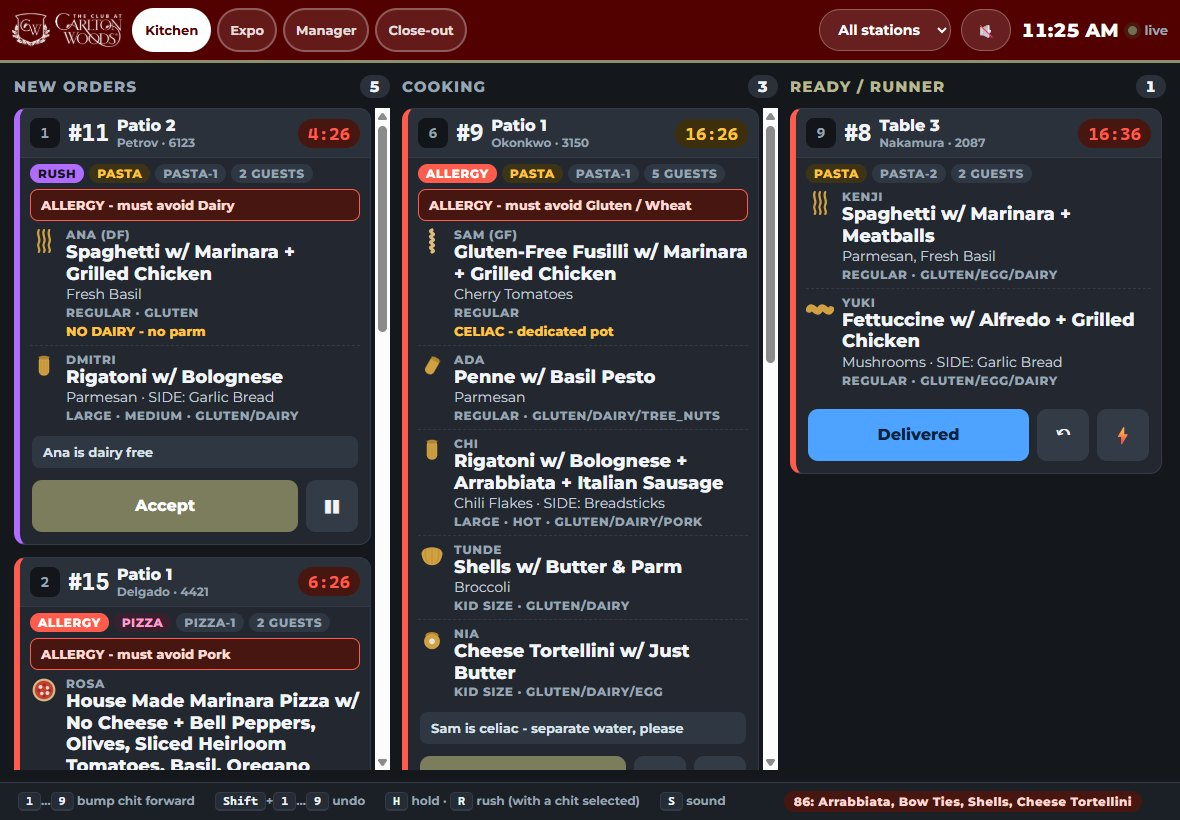
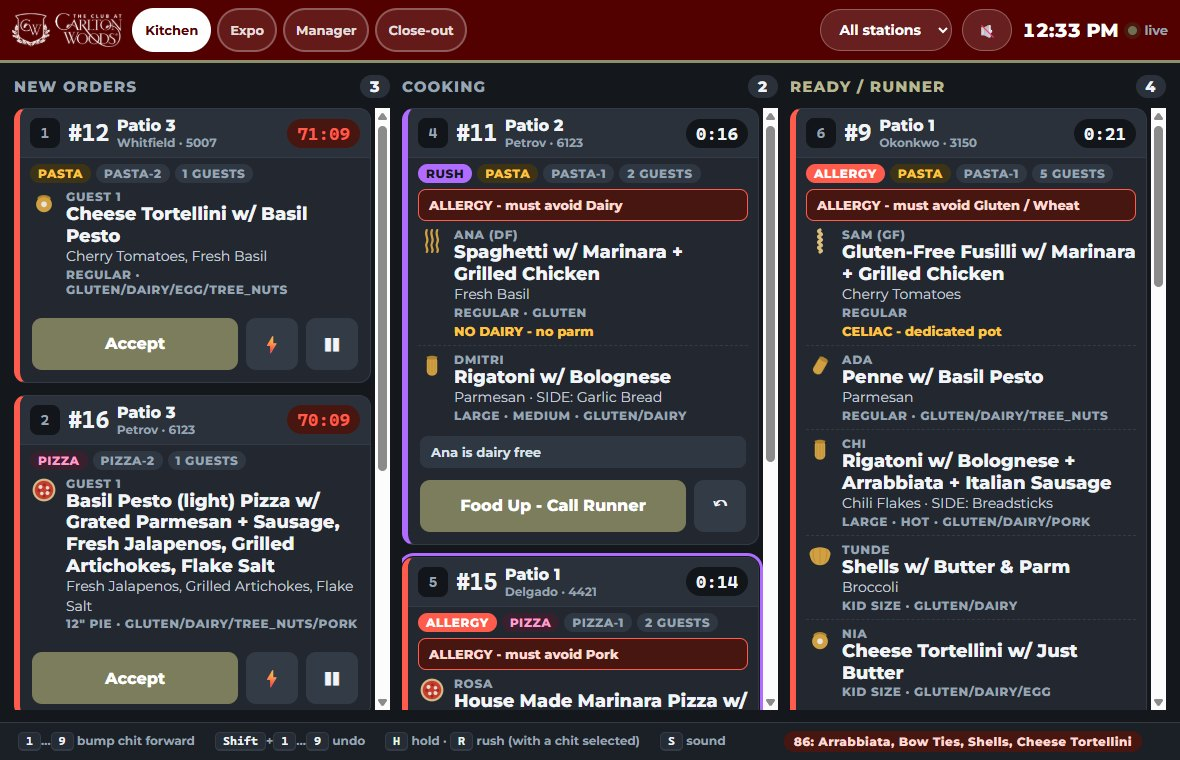
Fix the spacing on the rest of the pages, and let the build catch it
Went through all seven. Three were wrong:

  - Page 2's intro ran underneath the panel row and lost a word behind
    the first panel. The row starts 44pt lower now.
  - Page 3's phone screenshot sat on top of the callout beneath it. The
    callout is full width, so it has to clear both columns; it was only
    clearing the steps on its left.
  - The Counter read "Takeout Counter - Takeout Counter", which is what
    a first-to-last range says when there is only one of something.

The five-step loop on page 2 went with them. It restated the cover strip
almost step for step, and cutting it is what made room to space the rest
of the page properly.

Re-shot the expo board: the old capture was about 60% empty black
because only one ticket was on the pass. There are four now, and the
frame is shorter, so the picture is mostly board rather than mostly
background. Re-shot the rail for the same reason.

The real fix is the last one. Laying out in absolute coordinates means a
paragraph that grows by one line slides silently under whatever is below
it, and neither fault above shows up in a page count or a byte size. The
overlap is not even a margin error - both elements were well inside the
margins, just on top of each other. So the build now reads the finished
file back, checks every text run, panel and image against the margins,
the footer and each other, and fails if they collide. Verified by
reintroducing the page 3 bug: the build catches it and exits 1.

diff --git a/scripts/guide-pdf.js b/scripts/guide-pdf.js
@@ -251,7 +251,9 @@ y = para(
   112, { width: COL - 40 },
 );
 
-const bandY = 160;
+// Clear of the intro above it. At 160 the last line of that paragraph ran
+// underneath this row and lost a word behind the first panel.
+const bandY = 204;
 // Tall enough for the two cooking areas plus the note under them. They ended
 // flush on the border at 236, with the note sitting on the last station box.
 const bandH = 264;
@@ -315,12 +317,19 @@ groupBy(config.tags, 'area', (t) => t.label).forEach((g) => {
   // Tables come from the tent list, covers from the config. Printing them
   // together is the whole point: a manager reading this wants to know what a
   // full room looks like before the first ticket lands.
-  const line = covers
-    ? g.items.length + ' tables, ' + covers + ' covers'
-    : g.items.length + (g.items.length === 1 ? ' point' : ' points');
-  doc.text(line, { x: zoneX + 12, y: zy + 14, size: 10.5, font: 'bold', color: INK });
-  zy = para(g.items[0] + ' - ' + g.items[g.items.length - 1], zy + 27,
-    { x: zoneX + 12, width: colW - 24, size: 8.5, lead: 11 }) + 14;
+  // An area with covers leads with its capacity and names its range beneath.
+  // One with a single point just names it - "Takeout Counter - Takeout
+  // Counter" is what a first-to-last range says when there is only one.
+  const headline = covers ? g.items.length + ' tables, ' + covers + ' covers' : g.items[0];
+  doc.text(headline, { x: zoneX + 12, y: zy + 14, size: 10.5, font: 'bold', color: INK });
+  zy += 14;
+  if (covers) {
+    const range = g.items.length > 1
+      ? g.items[0] + ' - ' + g.items[g.items.length - 1]
+      : g.items[0];
+    zy = para(range, zy + 13, { x: zoneX + 12, width: colW - 24, size: 8.5, lead: 11 });
+  }
+  zy += 18;
 });
 
 const totalCovers = Object.values(config.areaCovers).reduce((a, b) => a + b, 0);
@@ -331,25 +340,10 @@ doc.text(totalCovers + ' covers', { x: zoneX + 12, y: zy + 28, size: 13, font: '
 arrow(M + colW + 5, bandY + 120, passX - 5, bandY + 120, FAINT, 1.2);
 arrow(passX + colW + 5, bandY + 120, zoneX - 5, bandY + 120, FAINT, 1.2);
 
-y = bandY + bandH + 34;
-rule(y);
-eyebrow('And back again', y + 22);
-
-const loop = [
-  ['1', 'Member scans the tent', 'The code carries the table. Nobody types a table number, ever.'],
-  ['2', 'Ticket routes by kind', 'Pasta to the main kitchen, pizza to the patio decks, alternating.'],
-  ['3', 'Kitchen calls it up', 'It leaves the rail and appears on the pass, wherever it was cooked.'],
-  ['4', 'Runner reads the destination', 'Written large on the card: the tent name, not a code to decode.'],
-  ['5', 'Delivered closes the loop', 'The member\'s own phone updates as the runner walks away.'],
-];
-let ly = y + 46;
-loop.forEach((s) => {
-  doc.rect(M, ly - 9, 18, 18, BRAND);
-  monoMid(s[0], M + 9, ly + 4, 9, PAPER);
-  doc.text(s[1], { x: M + 28, y: ly + 4, size: 9.5, font: 'bold', color: INK });
-  doc.text(s[2], { x: M + 210, y: ly + 4, size: 9, color: SOFT });
-  ly += 26;
-});
+// The five-step loop that used to sit here restated the cover strip almost
+// step for step. The page reads better with the air.
+y = bandY + bandH + 36;
+const ly = y;
 
 y = ly + 18;
 rule(y);
@@ -386,7 +380,7 @@ para('They scan the code on the table tent and they are in. The whole order take
 
 const memberSteps = [
   ['Scan the tent', 'Every table has its own code. It carries the table with it, so the kitchen always knows where the food goes.'],
-  ['Language, then member number', 'English and Espanol are the first thing on the first screen, each written in its own language. Member numbers are 1 to 4 digits; leading zeros do not matter.'],
+  ['Language, then member number', 'English and Español are the first thing on the first screen, each written in its own language. Member numbers are 1 to 4 digits; leading zeros do not matter.'],
   ['Pasta or pizza', 'One tap. The next screen greets them by name.'],
   ['How many at the table', 'Up to ' + config.order.maxGuests + '. This is the number that becomes covers at close-out.'],
   ['Build each plate', 'One tile grid per person. Anything 86\'d is greyed out and marked sold out - visible rather than hidden. Allergens show on each ingredient as they build.'],
@@ -406,14 +400,18 @@ memberSteps.forEach((s, i) => {
 
 const cardY = 148;
 const cardX = RIGHT - 152;
+let rightColumnBottom = cardY + 198;
 
 // The build grid, actual size on a phone, in the column beside the steps.
 if (SHOTS.build) {
-  const ph = doc.fit(SHOTS.build, 152, 262);
-  doc.image(SHOTS.build, { x: cardX + (152 - ph.w) / 2, y: cardY + 212, w: ph.w, h: ph.h });
-  frame(cardX + (152 - ph.w) / 2, cardY + 212, ph.w, ph.h, RULE, 0.6);
-  para('Building bowl 1 of 2. Bow Ties is 86\'d - greyed out and marked sold out, never hidden.',
-    cardY + 212 + ph.h + 13, { x: cardX, width: 152, size: 8, lead: 10, color: FAINT });
+  const shotTop = cardY + 216;
+  const ph = doc.fit(SHOTS.build, 152, 250);
+  doc.image(SHOTS.build, { x: cardX + (152 - ph.w) / 2, y: shotTop, w: ph.w, h: ph.h });
+  frame(cardX + (152 - ph.w) / 2, shotTop, ph.w, ph.h, RULE, 0.6);
+  rightColumnBottom = para(
+    'Building bowl 1 of 2. Bow Ties is 86\'d - greyed out and marked sold out, never hidden.',
+    shotTop + ph.h + 14, { x: cardX, width: 152, size: 8, lead: 10, color: FAINT },
+  );
 }
 
 panel(cardX, cardY, 152, 198, { fill: WASH });
@@ -436,7 +434,9 @@ limits.forEach(([k, v]) => {
   liy += 19;
 });
 
-y += 6;
+// Full width, so it has to clear BOTH columns. Taking only the steps column
+// into account put it straight through the phone screenshot beside them.
+y = Math.max(y, rightColumnBottom) + 18;
 panel(M, y, COL, 58, { fill: WASH, accent: QUEUED, border: null });
 doc.text('An unrecognised member number still goes through.', { x: M + 14, y: y + 22, size: 10, font: 'bold', color: INK });
 para('The kitchen is not the place to settle a membership question and a hungry guest should not be '
@@ -667,5 +667,83 @@ const bytes = doc.build({
   title: 'Neapolitan Night - Floor Guide',
   author: 'The Club at Carlton Woods',
 });
+
+/**
+ * Read the finished file back and check the layout actually holds.
+ *
+ * Laying a page out in absolute coordinates means a paragraph that grows by
+ * one line silently slides under whatever is beneath it. Both faults this
+ * document has shipped were exactly that: copy running off the bottom of the
+ * sheet, and a screenshot sitting on top of a callout because the callout only
+ * cleared the column to its left.
+ *
+ * Neither is visible in a page count or a byte size, and the second is not
+ * visible in a margin check either - the two elements were both comfortably
+ * inside the margins, just on top of each other. So the build refuses rather
+ * than handing over a document that has to be proofread by eye every time.
+ */
+function verify(pdfBytes) {
+  const src = Buffer.from(pdfBytes).toString('latin1');
+  const problems = [];
+  const streams = [...src.matchAll(/stream\r?\n([\s\S]*?)\r?\nendstream/g)]
+    .map((m) => m[1])
+    .filter((s) => /Tj/.test(s));
+
+  const hits = (a, b) => a.x < b.x + b.w && b.x < a.x + a.w && a.y < b.y + b.h && b.y < a.y + a.h;
+  const H = doc.height;
+  const FOOT = 748;
+
+  streams.forEach((s, i) => {
+    const page = 'page ' + (i + 1);
+    const boxes = [];
+
+    for (const m of s.matchAll(/([\d.-]+) ([\d.-]+) Td \((.*?)\) Tj/g)) {
+      const x = +m[1];
+      const y = H - +m[2];
+      if (x < M - 1 || x > doc.width - M + 1 || y < 20 || y > H - 20) {
+        problems.push(`${page}: text "${m[3].slice(0, 30)}" outside the margins at y=${y.toFixed(0)}`);
+      }
+    }
+
+    for (const m of s.matchAll(/q ([\d.-]+) 0 0 ([\d.-]+) ([\d.-]+) ([\d.-]+) cm \/(Im\d+) Do Q/g)) {
+      const w = +m[1];
+      const h = +m[2];
+      const box = { what: m[5], x: +m[3], y: H - (+m[4] + h), w, h };
+      boxes.push(box);
+      if (box.y + h > FOOT) problems.push(`${page}: ${box.what} runs into the footer`);
+    }
+
+    for (const m of s.matchAll(/([\d.-]+) ([\d.-]+) ([\d.-]+) ([\d.-]+) re f/g)) {
+      const w = +m[3];
+      const h = +m[4];
+      // Full-bleed bands and hairline rules are not content boxes.
+      if (w > doc.width - 20 || h < 12) continue;
+      const box = { what: 'panel', x: +m[1], y: H - (+m[2] + h), w, h };
+      boxes.push(box);
+      if (box.y + h > FOOT) problems.push(`${page}: a panel runs into the footer`);
+    }
+
+    boxes.forEach((a, ai) => boxes.slice(ai + 1).forEach((b) => {
+      // Panels nest inside panels by design - a chit inside a lane.
+      if (a.what === 'panel' && b.what === 'panel') return;
+      if (hits(a, b)) {
+        problems.push(`${page}: ${a.what} overlaps ${b.what}`
+          + ` (y ${a.y.toFixed(0)}-${(a.y + a.h).toFixed(0)} vs ${b.y.toFixed(0)}-${(b.y + b.h).toFixed(0)})`);
+      }
+    }));
+  });
+
+  return problems;
+}
+
+const problems = verify(bytes);
 writeFileSync(OUT, Buffer.from(bytes));
-console.log('wrote ' + OUT + '  (' + doc.pageCount + ' pages, ' + bytes.length + ' bytes)');
+
+if (problems.length) {
+  console.error('wrote ' + OUT + ', but the layout is broken:');
+  problems.forEach((p) => console.error('  ' + p));
+  process.exitCode = 1;
+} else {
+  console.log('wrote ' + OUT + '  (' + doc.pageCount + ' pages, '
+    + (bytes.length / 1024).toFixed(0) + 'KB, layout checked)');
+}
